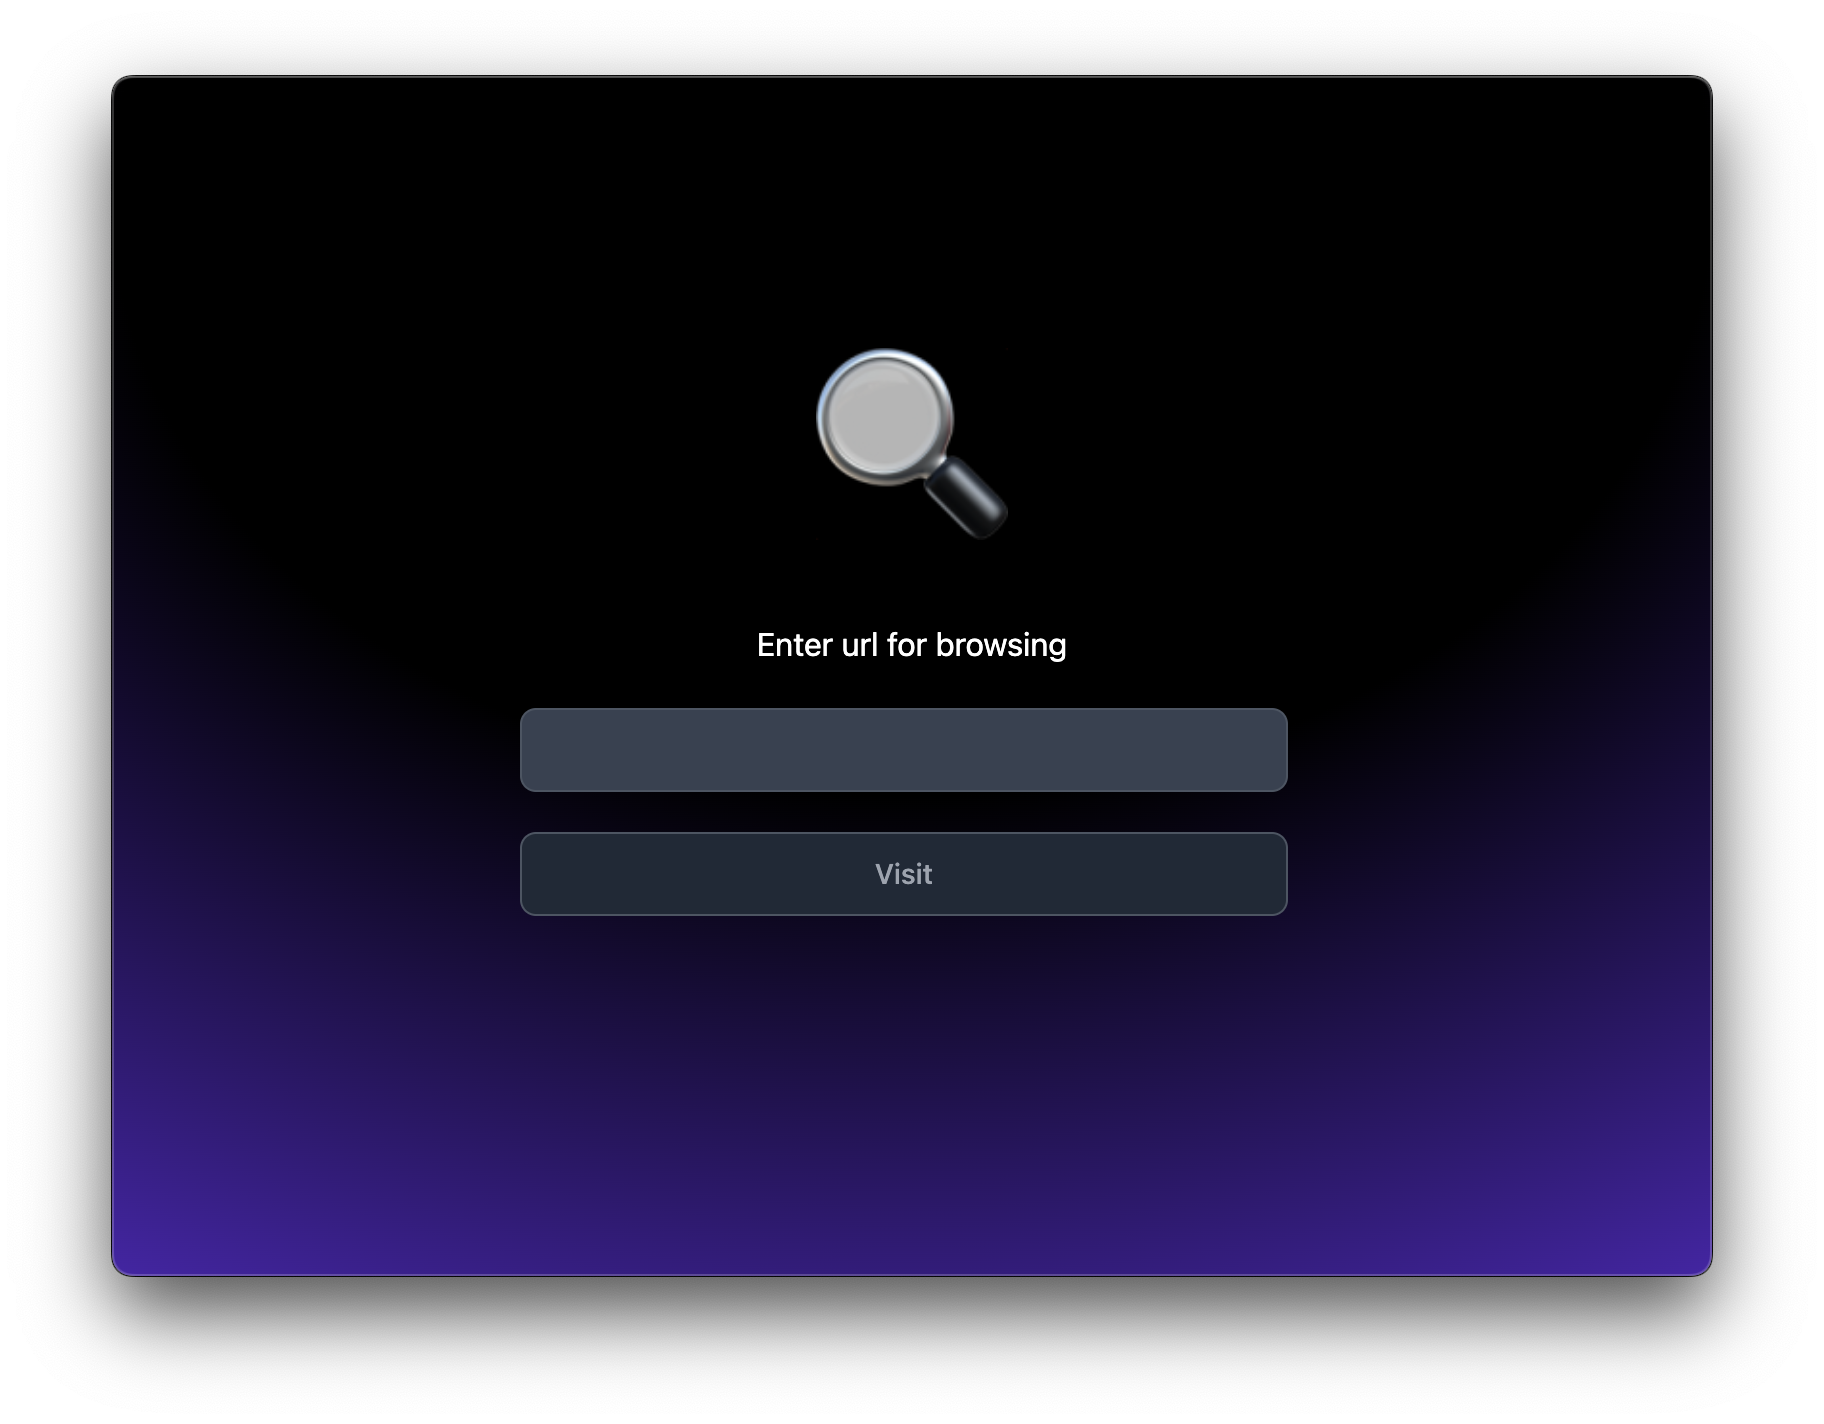
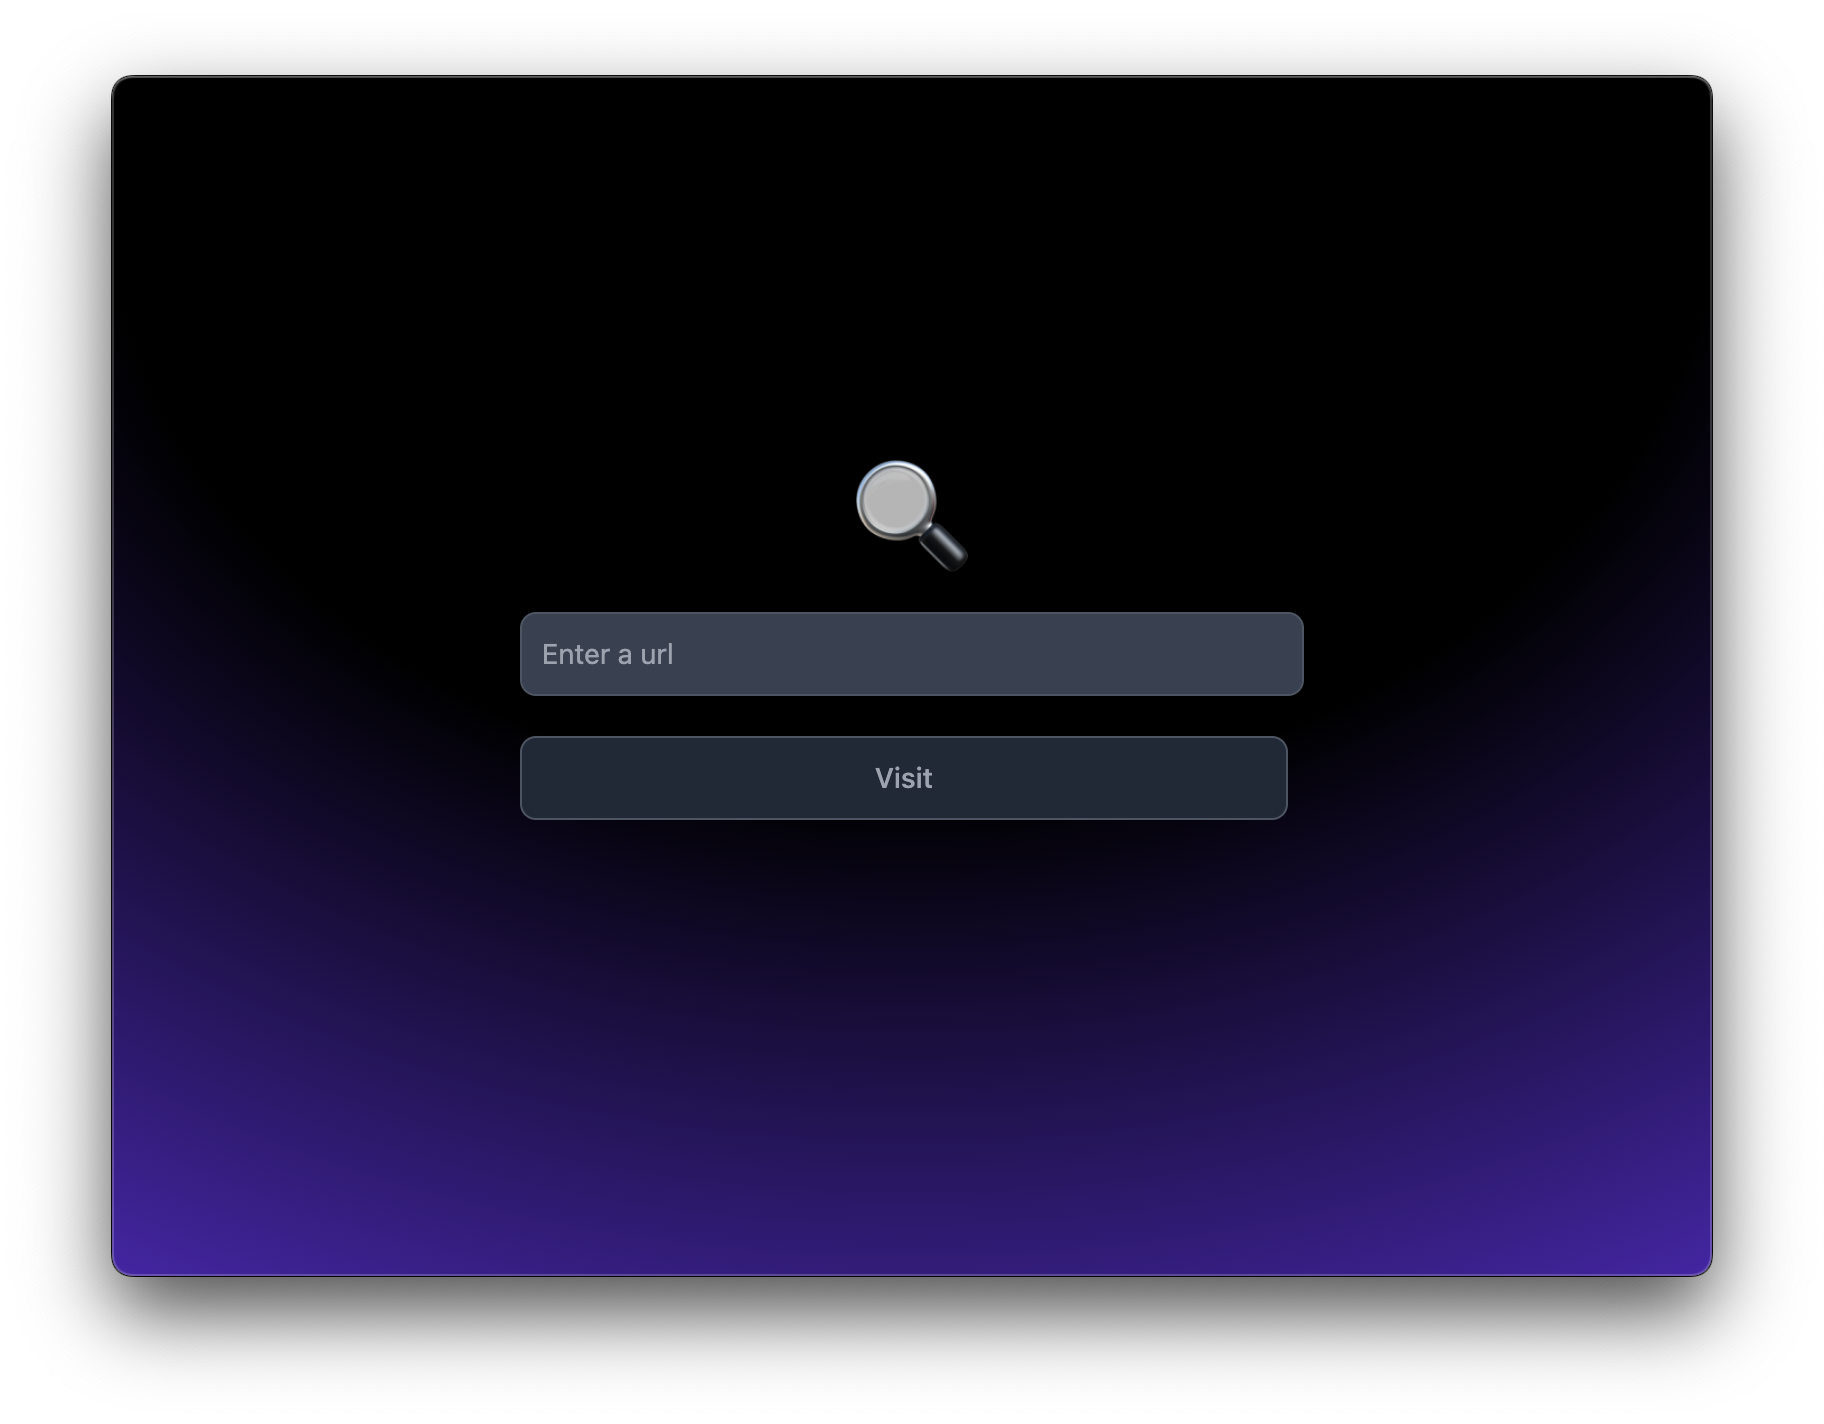
refactor: 💡 update ui & screenshot

Changed region(s): [[0.2812, 0.4326, 0.7188, 0.6489], [0.4375, 0.2472, 0.5625, 0.4017]]

diff --git a/app/src/views/Main.vue b/app/src/views/Main.vue
@@ -1,11 +1,10 @@
 <template>
     <div
         class="absolute inset-0 -z-10 h-full w-full items-center px-5 py-24 [background:radial-gradient(125%_125%_at_50%_10%,#000_40%,#63e_100%)]">
-        <div class="flex flex-col justify-center main mt-10 ">
-            <div class="mx-auto flex align-center flex-col">
-                <img src="../assets/logo.png" alt="App logo" class="h-24 w-24 mx-auto" />
-                <p class="text-center text-white mt-10">Enter url for browsing</p>
-                <InputBar class="w-96 mt-5" v-model:target-url="targetUrl" />
+        <div class="flex flex-col justify-center main mt-24 ">
+            <div class="mx-auto flex align-center flex-col  ">
+                <img src="../assets/logo.png" alt="App logo" class="h-14 w-14 mx-auto" />
+                <InputBar class="w-96 mt-5" place-holder="Enter a url" v-model:target-url="targetUrl" />
                 <Button text="Visit" class="mt-5 w-96" @click="visitUrl" />
             </div>
         </div>

diff --git a/app/src/components/InputBar.vue b/app/src/components/InputBar.vue
@@ -1,11 +1,17 @@
 <template>
-    <input type="text" v-model="targetUrl"
+    <input type="text" :placeholder="props.placeHolder" v-model="targetUrl"
         class="bg-gray-50 border border-gray-300 text-gray-900 text-sm rounded-lg focus:ring-blue-500 focus:border-blue-500 block w-full p-2.5 dark:bg-gray-700 dark:border-gray-600 dark:placeholder-gray-400 dark:text-white dark:focus:ring-blue-500 dark:focus:border-blue-500">
 
 </template>
 
 <script setup>
 
+const props = defineProps({
+    placeHolder: {
+        type: String,
+        default: ''
+    }
+})
 const targetUrl = defineModel('targetUrl')
 
 
